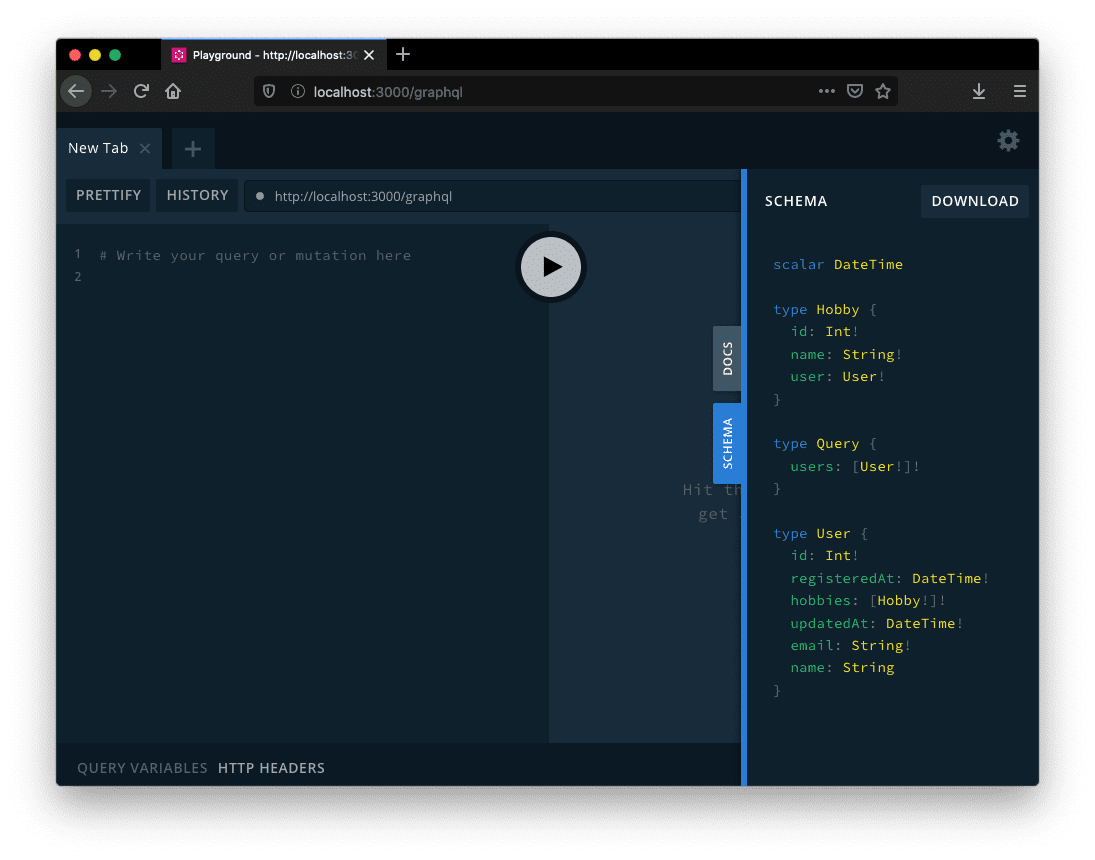
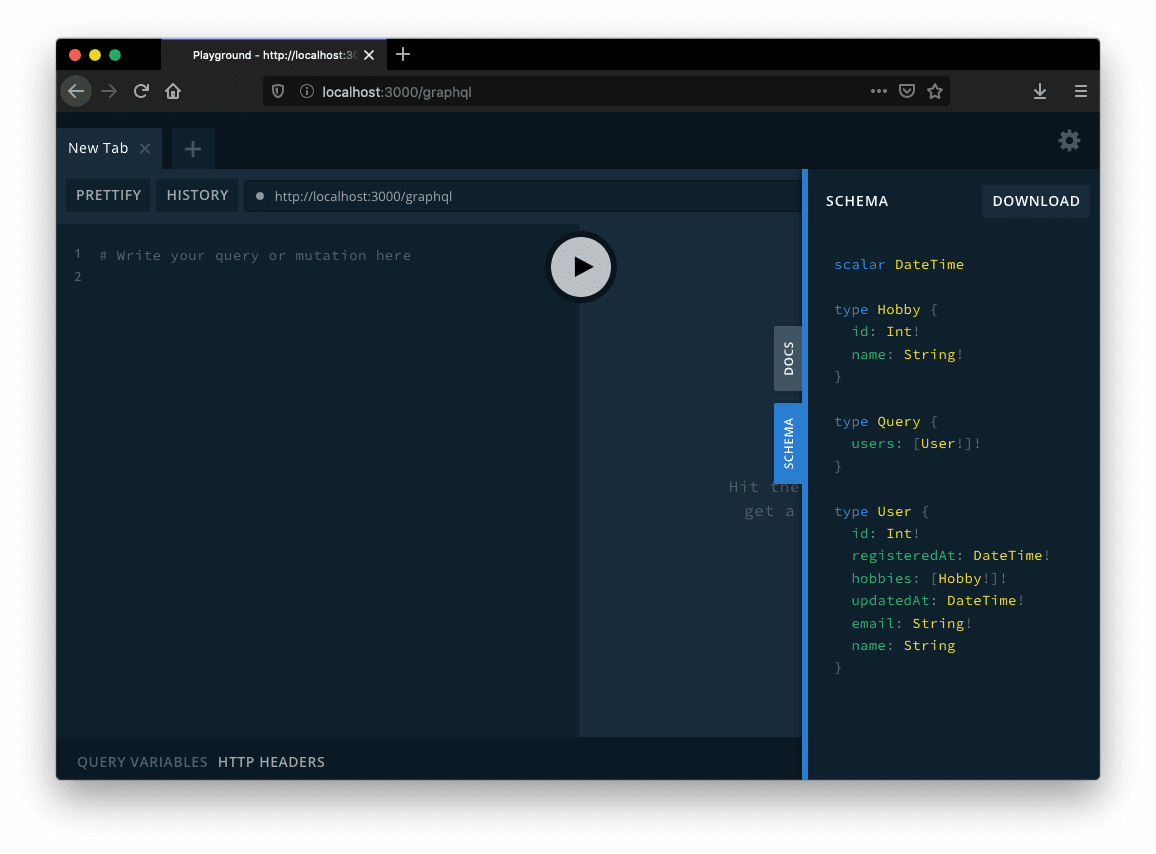
content: add hobby class and update image

diff --git a/content/blog/graphql-code-first-with-nestjs-7.md b/content/blog/graphql-code-first-with-nestjs-7.md
@@ -17,6 +17,8 @@ Recently the release of [NestJS 7](https://trilon.io/blog/announcing-nestjs-7-wh
 
 We create a [GraphQL](https://graphql.org/) API using the `@nestjs/graphql`. You will learn how to write the API with TypeScript using the **code first** approach and the new [GraphQL plugin](https://docs.nestjs.com/graphql/resolvers#cli-plugin).
 
+In this guide we are using [Prisma](https://prisma.io) to easily access a database. You can follow this guide to setup a [Nest application with Prisma](https://notiz.dev/blog/how-to-connect-nestjs-with-prisma) as Prisma is out of scope for this guide.
+
 ## Setup GraphQL
 
 To start a GraphQL API install the following packages into your Nest application.
@@ -83,6 +85,12 @@ export class User {
   email: string;
   password: string;
   name?: string;
+  hobbies: Hobby[];
+}
+
+export class Hobby {
+  id: number;
+  name: string;
 }
 ```
 
@@ -95,13 +103,17 @@ import { ObjectType } from '@nestjs/graphql';
 export class User {
   ...
 }
+
+@ObjectType()
+export class Hobby {
+  ...
+}
 ```
 
 Next we use the `@Field` decorator on each class property providing additional information about the type and state (required or optional).
 
 ```ts
 import { ObjectType, Field, Int } from '@nestjs/graphql';
-import { Hobby } from './hobby.model';
 
 @ObjectType()
 export class User {
@@ -128,6 +140,11 @@ export class User {
 
 @ObjectType()
 export class Hobby {
+  @Field(type => Int)
+  id: number;
+
+  @Field(type => String)
+  name: string;
 }
 ```
 
@@ -184,7 +201,7 @@ export class UserResolver {
 }
 ```
 
-Declare a `of` function in the `@Resolver` decorator (e.g. `@Resolver(of => User)`) this is used to provide a parent object in `@ResolveField`. I will cover `@ResolveField` in a bit.
+Declare a `of` function in the `@Resolver` decorator (e.g. `@Resolver(of => User)`) this is used to provide a parent object in `@ResolveField`.  will cover `@ResolveField` in a bit.
 
 Add `@Query` to your resolvers to create new GraphQL queries in your schema. Let's create a query function returning all `users()`. Use the bracket notation inside the decorator `@Query(returns => [User])` to declare an array return value.
 
@@ -326,6 +343,15 @@ export class User {
   @Field(type => [Hobby])
   hobbies: Hobby[];
 }
+
+@ObjectType()
+export class Hobby {
+  @Field(type => Int)
+  id: number;
+
+  @Field(type => String)
+  name: string;
+}
 ```
 
 After removing the extra boilerplate decorators the models looks like this:
@@ -353,6 +379,14 @@ export class User {
 
   @Field(type => [Hobby])
   hobbies: Hobby[];
+}
+
+@ObjectType()
+export class Hobby {
+  @Field(type => Int)
+  id: number;
+
+  name: string;
 }
 ```
 
